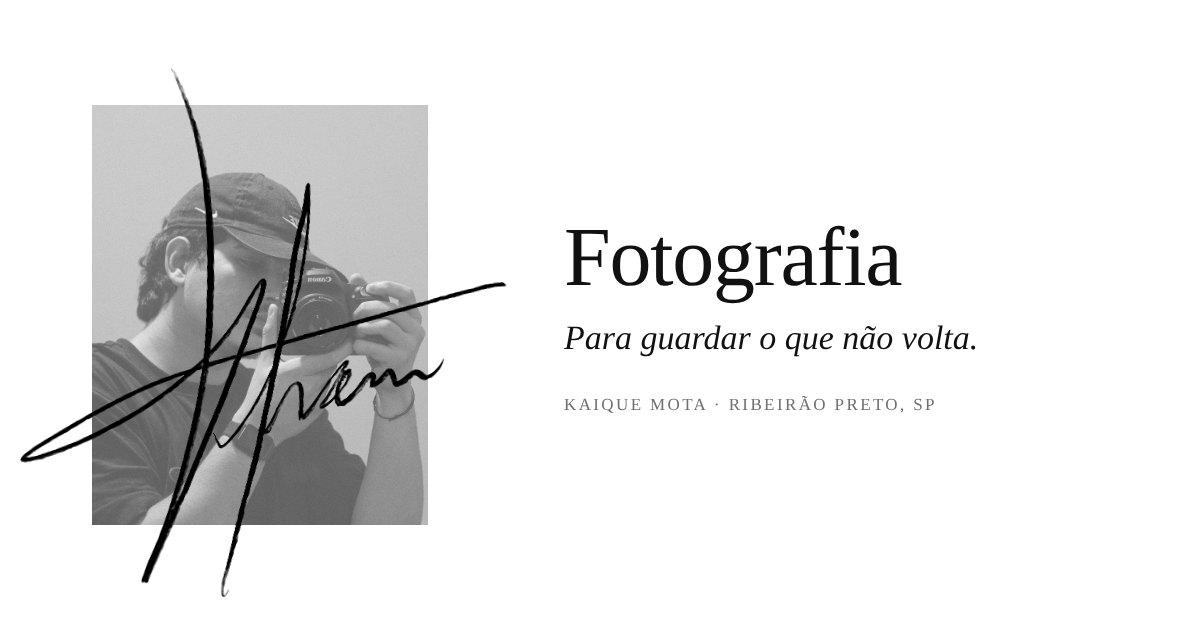
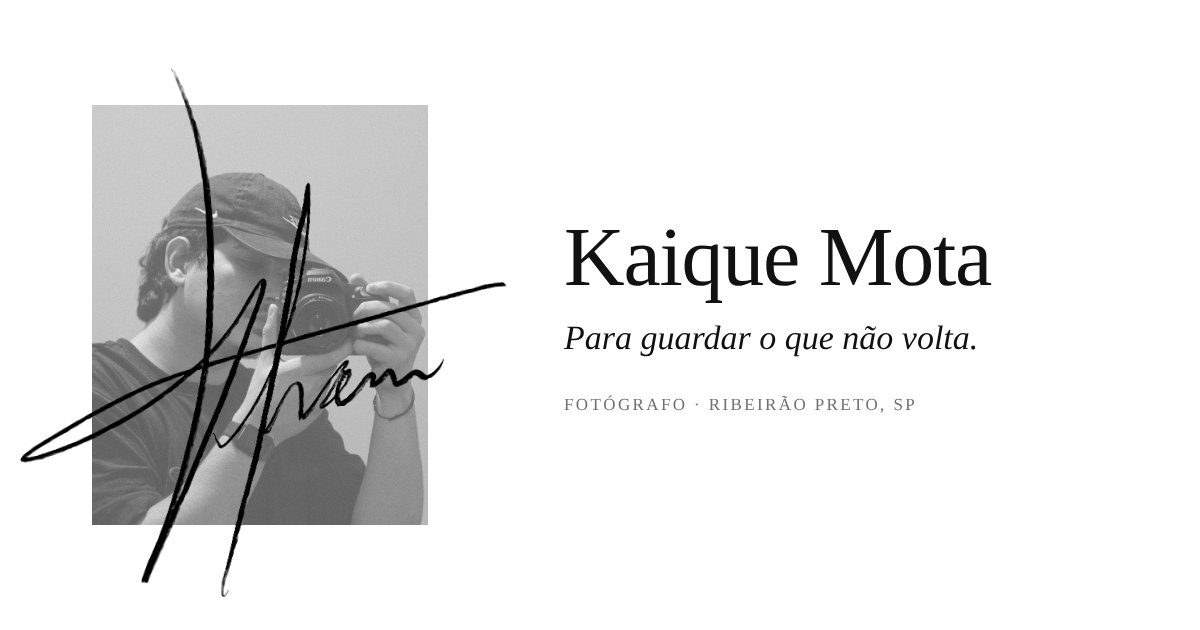
Fotografia: o nome como título da capa
"Fotografia" sozinho parecia o nome de uma seção. A capa passa a ter
"Kaique Mota" como título, a frase "Para guardar o que não volta." em
itálico embaixo e "Fotógrafo · Ribeirão Preto, SP" no rótulo (como o
nome no Instagram, "Kaique Mota | Fotógrafo"). A prévia do WhatsApp
(compartilhar.jpg) e o texto alternativo dela seguem o mesmo texto.

Claude-Session: https://claude.ai/code/session_0145iTtc4eisu1PYjLDQK1aW

Changed region(s): [[0.4625, 0.3619, 0.8325, 0.4825], [0.4625, 0.6333, 0.7708, 0.6635]]

diff --git a/fotografia/index.html b/fotografia/index.html
@@ -17,7 +17,7 @@
     <meta property="og:image" content="https://okaiquemota.com.br/fotografia/img/compartilhar.jpg">
     <meta property="og:image:width" content="1200">
     <meta property="og:image:height" content="630">
-    <meta property="og:image:alt" content="Fotografia, de Kaique Mota: “Para guardar o que não volta.” Ribeirão Preto, SP">
+    <meta property="og:image:alt" content="Kaique Mota, fotógrafo: “Para guardar o que não volta.” Ribeirão Preto, SP">
     <meta name="twitter:card" content="summary_large_image">
     <link rel="icon" href="../assets/img/assinatura.svg" type="image/svg+xml">
     <link rel="apple-touch-icon" href="../assets/img/icone-180.png">
@@ -143,9 +143,9 @@
                 <span class="assinatura" role="img" aria-label="Assinatura do Kaique Mota"></span>
             </figure>
             <div class="capa-texto">
-                <h1 id="capa-titulo"><span class="visualmente-escondido">Kaique Mota, </span>Fotografia</h1>
+                <h1 id="capa-titulo">Kaique Mota</h1>
                 <p class="capa-frase">Para guardar o que não volta.</p>
-                <p class="rotulo capa-lugar">Ribeirão Preto, SP</p>
+                <p class="rotulo capa-lugar">Fotógrafo · Ribeirão Preto, SP</p>
                 <div class="capa-acoes">
                     <a class="botao" href="#contato">Consultar data</a>
                     <a class="link" href="#pacotes">Ver pacotes <svg class="ic" aria-hidden="true" focusable="false"><use href="#i-dir"></use></svg></a>
